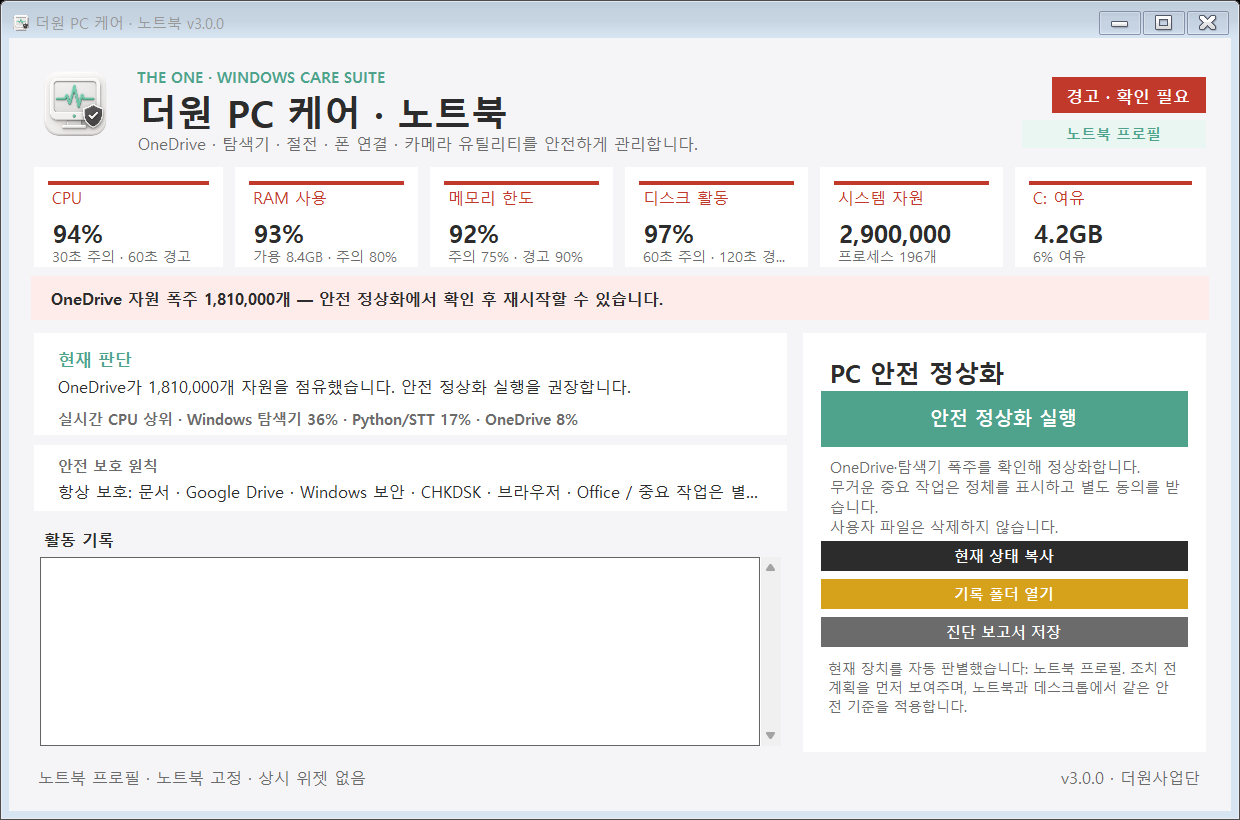
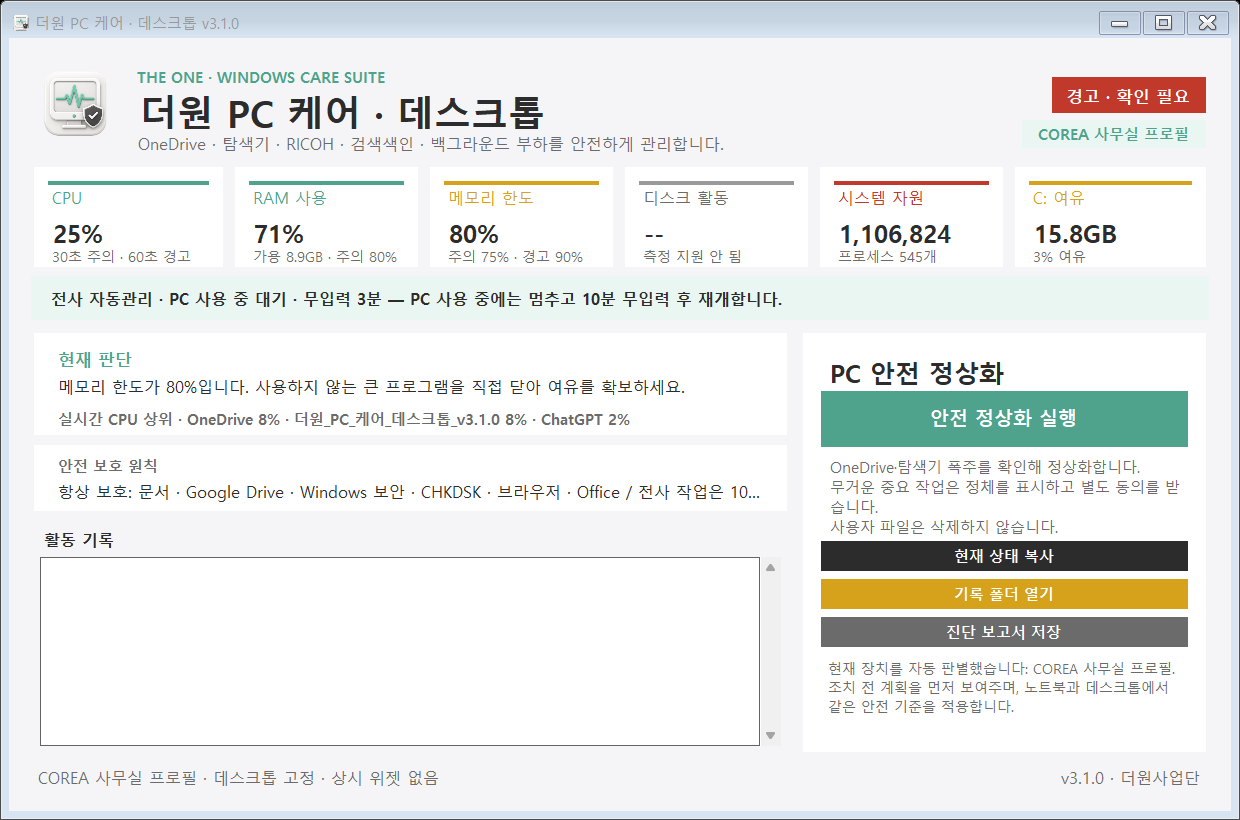
feat: PC 유휴 시 전사 자동 재개 상태 연동

diff --git a/src/PcCareUniversal.cs b/src/PcCareUniversal.cs
@@ -9,6 +9,7 @@ using System.Reflection;
 using System.Runtime.InteropServices;
 using System.ServiceProcess;
 using System.Text;
+using System.Text.RegularExpressions;
 using System.Threading;
 using System.Threading.Tasks;
 using System.Windows.Forms;
@@ -27,8 +28,8 @@ using Microsoft.Win32;
 [assembly: AssemblyProduct("ReOne PC Care")]
 [assembly: AssemblyCopyright("Copyright (c) 2026 ReOne Partners")]
 #endif
-[assembly: AssemblyVersion("3.0.0.0")]
-[assembly: AssemblyFileVersion("3.0.0.0")]
+[assembly: AssemblyVersion("3.1.0.0")]
+[assembly: AssemblyFileVersion("3.1.0.0")]
 
 namespace TheOnePcCare
 {
@@ -60,7 +61,7 @@ namespace TheOnePcCare
         public const string ErrorFileName = "ReOne_PC_Care_Error.txt";
         public const string MutexName = "Local\\ReOnePcCareV2";
 #endif
-        public const string Version = "3.0.0";
+        public const string Version = "3.1.0";
         public const string IconResourceName = "PcCareIcon";
 
         public static string DataDirectory
@@ -1186,11 +1187,18 @@ namespace TheOnePcCare
 
             List<string> protectedActive = s.GetActiveProtectedNames();
             bool oneDriveRunaway = string.Equals(s.TopHandleProcess, "OneDrive", StringComparison.OrdinalIgnoreCase) && OfficeCareEngine.ShouldRestartOneDrive(s.TopHandleCount);
+            bool sttIdleManaged = OfficeCareEngine.IsSttIdlePolicyCurrent();
+            string sttIdleText = OfficeCareEngine.GetSttIdlePolicyDisplay();
             if (oneDriveRunaway)
             {
                 protectedActive.RemoveAll(delegate(string name) { return string.Equals(name, "OneDrive", StringComparison.OrdinalIgnoreCase); });
                 protectedBanner.Text = "OneDrive 자원 폭주 " + s.TopHandleCount.ToString("N0") + "개 — 안전 정상화에서 확인 후 재시작할 수 있습니다.";
                 protectedBanner.BackColor = Palette.RedLight;
+            }
+            else if (sttIdleManaged)
+            {
+                protectedBanner.Text = "전사 자동관리 · " + sttIdleText + " — PC 사용 중에는 멈추고 10분 무입력 후 재개합니다.";
+                protectedBanner.BackColor = Palette.TealLight;
             }
             else if (protectedActive.Count > 0)
             {
@@ -1202,13 +1210,15 @@ namespace TheOnePcCare
                 protectedBanner.Text = "보호 대상 작업이 현재 실행 중이 아닙니다. 안전 정상화는 사용자 파일을 삭제하지 않습니다.";
                 protectedBanner.BackColor = Palette.TealLight;
             }
-            protectedList.Text = "항상 보호: 문서 · Google Drive · Windows 보안 · CHKDSK · 브라우저 · Office / 중요 작업은 별도 확인";
+            protectedList.Text = "항상 보호: 문서 · Google Drive · Windows 보안 · CHKDSK · 브라우저 · Office / 전사 작업은 10분 유휴 자동관리";
             cpuHotspotLabel.Text = lastHotspot.Available
                 ? "실시간 CPU 상위 · " + lastHotspot.Summary
                 : "실시간 CPU 상위를 측정하고 있습니다.";
 
             if (oneDriveRunaway)
                 diagnosis.Text = "OneDrive가 " + s.TopHandleCount.ToString("N0") + "개 자원을 점유했습니다. 안전 정상화 실행을 권장합니다.";
+            else if (sttIdleManaged && s.CpuPercent >= 90)
+                diagnosis.Text = "전사 자동관리 상태: " + sttIdleText + ". 입력이 감지되면 현재 짧은 구간을 마친 뒤 CPU 사용을 멈춥니다.";
             else if (s.CpuPercent >= 90 && lastHotspot.Available)
                 diagnosis.Text = "CPU가 " + s.CpuPercent.ToString("0") + "%입니다. 상위 점유 작업을 확인해 안전 정상화를 실행하세요.";
             else if (s.Maxim.Handles >= 10000 && !s.Maxim.Verified)
@@ -1246,7 +1256,7 @@ namespace TheOnePcCare
             if (MessageBox.Show(message, "PC 안전 정상화", MessageBoxButtons.YesNo, MessageBoxIcon.Warning, MessageBoxDefaultButton.Button2) == DialogResult.Yes)
             {
                 bool pauseStt = false;
-                if (OfficeCareEngine.IsSttTranscriptionActive())
+                if (OfficeCareEngine.IsSttTranscriptionActive() && !OfficeCareEngine.IsSttIdlePolicyCurrent())
                 {
                     DialogResult sttChoice = MessageBox.Show(
                         "법률 녹취 자동전사(STT)가 실행 중입니다. 이 작업은 CPU를 많이 사용하지만 중요한 작업이라 자동 종료하지 않습니다.\r\n\r\n예: 이번에는 일시중지 — 원본과 완료된 전사본은 보존되고 다음 로그인 때 이어받음\r\n아니요: 계속 보호 — CPU 사용량이 높게 유지될 수 있음",
@@ -2822,6 +2832,7 @@ namespace TheOnePcCare
             int explorerThreads;
             GetExplorerLoad(out explorerHandles, out explorerThreads);
             bool sttActive = IsSttTranscriptionActive();
+            bool sttIdleManaged = IsSttIdlePolicyCurrent();
             long dexHandles = GetTotalHandles("SamsungDeX");
             long imageSaferHandles = GetTotalHandles("IMGSF50Svc");
 
@@ -2836,7 +2847,7 @@ namespace TheOnePcCare
                 report.AppendLine("· 노트북 보조 작업: Glance " + glanceCount + "개 / 휴대폰 연결 " + crossDeviceCount + "개");
             if (ProfileDetector.Current == DeviceProfile.OfficeCorea || GetServiceStatusText("RicohDeviceSoftwareManager") != "미설치")
                 report.AppendLine("· RICOH 관리 " + GetServiceStatusText("RicohDeviceSoftwareManager") + " / Windows 검색 " + GetServiceStatusText("WSearch") + " / 검색 호스트 " + searchHostCount + "개");
-            if (sttActive) report.AppendLine("· 중요 작업: 법률 녹취 자동전사(STT)가 실행 중");
+            if (sttActive) report.AppendLine("· 중요 작업: 법률 녹취 자동전사(STT) · " + (sttIdleManaged ? GetSttIdlePolicyDisplay() : "수동 보호 중"));
 
             report.AppendLine();
             report.AppendLine("실행 예정");
@@ -2853,7 +2864,9 @@ namespace TheOnePcCare
                 : "· Everything이 없어 Windows 검색색인은 유지");
             report.AppendLine("· Robocopy는 종료하지 않고 우선순위만 낮춤");
             report.AppendLine(sttActive
-                ? "· 법률 녹취 STT는 다음 확인창에서 동의할 때만 일시중지"
+                ? (sttIdleManaged
+                    ? "· 법률 녹취 STT는 PC 사용 중 대기하고 10분 무입력 후 자동 재개"
+                    : "· 법률 녹취 STT는 다음 확인창에서 동의할 때만 일시중지")
                 : "· 확인되지 않은 Python 작업은 종료하지 않고 우선순위만 낮춤");
             if (ProfileDetector.Current == DeviceProfile.Laptop)
                 report.AppendLine("· Glance·휴대폰 연결은 종료하지 않고 우선순위만 낮춤");
@@ -2917,7 +2930,9 @@ namespace TheOnePcCare
             }
 
             if (IsSttTranscriptionActive())
-                actions.Add(pauseStt ? PauseSttTranscription() : "[중요 작업 보호] 법률 녹취 자동전사(STT)를 계속 실행했습니다.");
+                actions.Add(IsSttIdlePolicyCurrent()
+                    ? "[전사 자동관리] " + GetSttIdlePolicyDisplay() + " — PC 사용 중 대기 / 10분 무입력 후 자동 재개 정책을 유지했습니다."
+                    : (pauseStt ? PauseSttTranscription() : "[중요 작업 보호] 법률 녹취 자동전사(STT)를 계속 실행했습니다."));
 
             actions.Add("[보호] Google Drive·Windows 보안·금융 보안·브라우저·Office는 변경하지 않았습니다.");
             return string.Join(Environment.NewLine, actions.ToArray());
@@ -3078,6 +3093,7 @@ namespace TheOnePcCare
 
         public static bool IsSttTranscriptionActive()
         {
+            if (IsSttIdlePolicyCurrent()) return true;
             try
             {
                 using (ManagementObjectSearcher searcher = new ManagementObjectSearcher("SELECT CommandLine FROM Win32_Process WHERE Name='pythonw.exe'"))
@@ -3093,6 +3109,45 @@ namespace TheOnePcCare
             }
             catch { }
             return false;
+        }
+
+        private static string SttIdleStatusPath
+        {
+            get { return @"C:\DriveBackupLog\stt_idle_status.json"; }
+        }
+
+        public static bool IsSttIdlePolicyCurrent()
+        {
+            try
+            {
+                if (!File.Exists(SttIdleStatusPath)) return false;
+                string text = File.ReadAllText(SttIdleStatusPath, Encoding.UTF8);
+                if (text.IndexOf("keyboard_mouse_idle_gate", StringComparison.OrdinalIgnoreCase) < 0) return false;
+                Match match = Regex.Match(text, "\\\"updated\\\"\\s*:\\s*\\\"([^\\\"]+)\\\"");
+                DateTime updated;
+                return match.Success && DateTime.TryParse(match.Groups[1].Value, out updated) &&
+                    DateTime.Now - updated < TimeSpan.FromSeconds(20);
+            }
+            catch { return false; }
+        }
+
+        public static string GetSttIdlePolicyDisplay()
+        {
+            try
+            {
+                if (!File.Exists(SttIdleStatusPath)) return "상태 확인 중";
+                string text = File.ReadAllText(SttIdleStatusPath, Encoding.UTF8);
+                Match stateMatch = Regex.Match(text, "\\\"state\\\"\\s*:\\s*\\\"([^\\\"]+)\\\"");
+                Match idleMatch = Regex.Match(text, "\\\"idle_seconds\\\"\\s*:\\s*([0-9.]+)");
+                string state = stateMatch.Success ? stateMatch.Groups[1].Value : "";
+                double idle = 0;
+                if (idleMatch.Success) double.TryParse(idleMatch.Groups[1].Value, System.Globalization.NumberStyles.Any, System.Globalization.CultureInfo.InvariantCulture, out idle);
+                if (state == "waiting_for_idle") return "PC 사용 중 대기 · 무입력 " + Math.Floor(idle / 60).ToString("0") + "분";
+                if (state == "running") return "10분 유휴 확인 · 전사 실행 중";
+                if (state == "completed") return "전사 대기열 완료";
+            }
+            catch { }
+            return "전사 자동관리 상태 확인 중";
         }
 
         private static string PauseSttTranscription()

diff --git a/docs/ADR-001-유휴전사관리.md b/docs/ADR-001-유휴전사관리.md
@@ -1,0 +1,28 @@
+# ADR-001: PC 유휴 상태 기반 전사 작업 관리
+
+**상태:** 채택
+**날짜:** 2026-08-25
+**결정자:** 더원사업단
+
+## 배경
+
+CPU 기반 음성 전사는 장시간 자원을 사용한다. 사용자가 PC를 조작하는 동안 전사를 계속하면 업무 프로그램의 반응이 느려지지만, 작업을 강제로 끝내면 처리 중이던 결과가 불완전하게 남을 수 있다.
+
+## 결정
+
+키보드·마우스 입력이 10분 동안 없을 때만 전사를 실행한다. 입력이 다시 감지되면 현재의 짧은 전사 구간을 안전하게 마친 뒤 대기한다. 전사 프로세스는 유휴 우선순위로 유지하며 결과 파일은 임시 파일에 완성한 다음 원자적으로 교체한다.
+
+## 검토한 선택지
+
+| 선택지 | 장점 | 단점 |
+|---|---|---|
+| 작업 스케줄러의 유휴 옵션만 사용 | 설정이 단순함 | 다중 워커가 부모와 분리되면 중지되지 않을 수 있음 |
+| 입력 감지 즉시 프로세스 강제 종료 | CPU가 즉시 내려감 | 처리 중 결과가 깨질 위험이 있음 |
+| 전사 프로그램 내부 유휴 게이트 | 결과를 보존하면서 자동 대기·재개 | 전사 코드에 제어 로직이 필요함 |
+
+## 결과
+
+- PC 사용 중 전사는 CPU를 거의 사용하지 않는다.
+- 10분 무입력 후 자동으로 이어서 실행한다.
+- 완료된 전사본과 원본 음성은 변경하거나 삭제하지 않는다.
+- 작업 스케줄러는 시작과 장애 복구를 담당하고, 실제 유휴 판단은 전사 프로그램이 담당한다.

diff --git a/RELEASE_NOTES.md b/RELEASE_NOTES.md
@@ -1,12 +1,12 @@
-## 더원 PC 케어 Universal 3.0.0
+## 더원 PC 케어 Universal 3.1.0
 
-노트북과 데스크톱에서 공통으로 사용할 수 있는 첫 범용 공개 버전입니다.
+PC 사용 중 전사 작업을 뒤로 미루고, 10분 이상 입력이 없을 때 자동 재개하는 상태 연동을 추가한 버전입니다.
 
 ### 어떤 파일을 받으면 되나요?
 
-- 노트북은 `TheOne-PC-Care-Laptop-v3.0.0.exe`
-- 일반 데스크톱은 `TheOne-PC-Care-Desktop-v3.0.0.exe`
-- 잘 모르겠으면 `TheOne-PC-Care-Auto-v3.0.0.exe`
+- 노트북은 `TheOne-PC-Care-Laptop-v3.1.0.exe`
+- 일반 데스크톱은 `TheOne-PC-Care-Desktop-v3.1.0.exe`
+- 잘 모르겠으면 `TheOne-PC-Care-Auto-v3.1.0.exe`
 
 ### 주요 변경
 
@@ -14,7 +14,8 @@
 - 노트북·데스크톱 자동 판별
 - 실시간 CPU 상위 프로세스 표시
 - OneDrive와 Windows 탐색기 자원 폭주 정상화
-- 중요 장기 작업은 별도 동의를 받아야만 일시중지
+- 전사 유휴관리 상태를 대시보드에 표시
+- 분리된 Python 전사 워커 식별 보완
 - 사용자 파일 무삭제·보안 프로그램 보호 원칙
 
 세 실행파일은 설치가 필요 없는 단일 EXE입니다. 상용 코드서명 인증서가 없어 Windows SmartScreen이 표시될 수 있습니다. `SHA256SUMS.txt`로 파일 무결성을 확인할 수 있습니다.

diff --git a/CHANGELOG.md b/CHANGELOG.md
@@ -1,5 +1,11 @@
 # 변경 기록
 
+## 3.1.0 - 2026-08-25
+
+- 법률 녹취 전사와 연동되는 10분 무입력 자동관리 상태를 표시합니다.
+- PC 사용 중에는 전사 작업을 대기시키고, 유휴 상태에서만 자동 재개하는 정책을 인식합니다.
+- 분리된 Python 전사 워커를 단순 백그라운드 작업으로 오인하던 진단을 보완했습니다.
+
 ## 3.0.0 - 2026-08-25
 
 - 노트북·데스크톱·자동감지 3개 프로필 배포
@@ -9,4 +15,3 @@
 - Windows 탐색기 핸들·스레드 폭주 안전 재시작 추가
 - 중요 장기 작업 별도 동의 보호 추가
 - OneDrive·RICOH·검색색인 정상화와 사용자 파일 무삭제 원칙 유지
-
